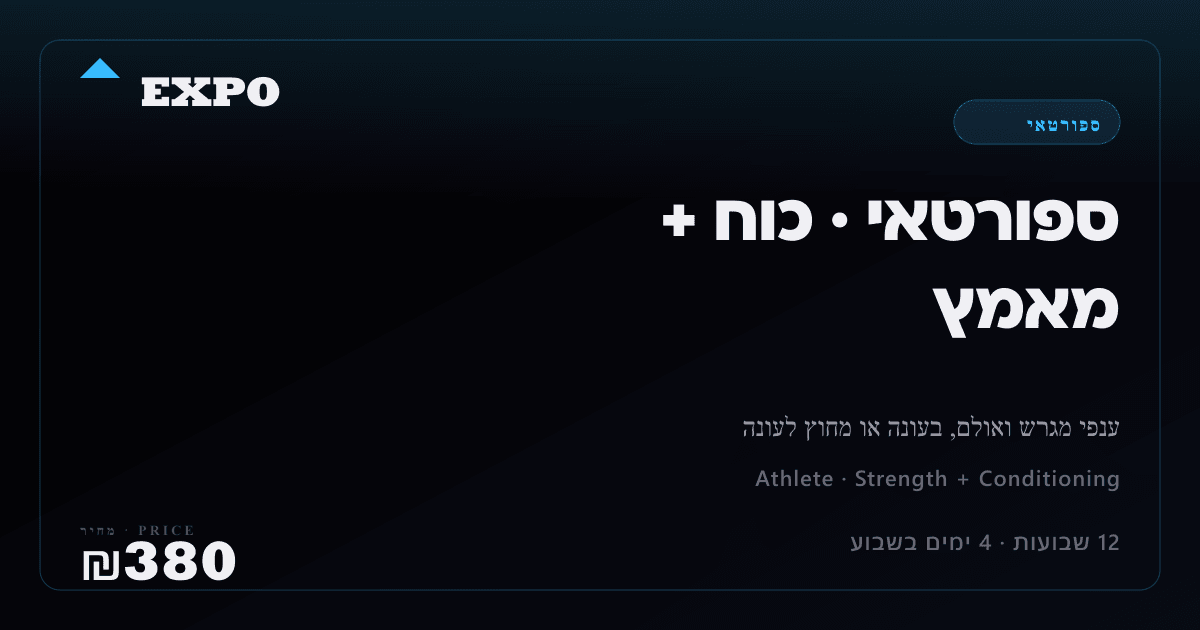
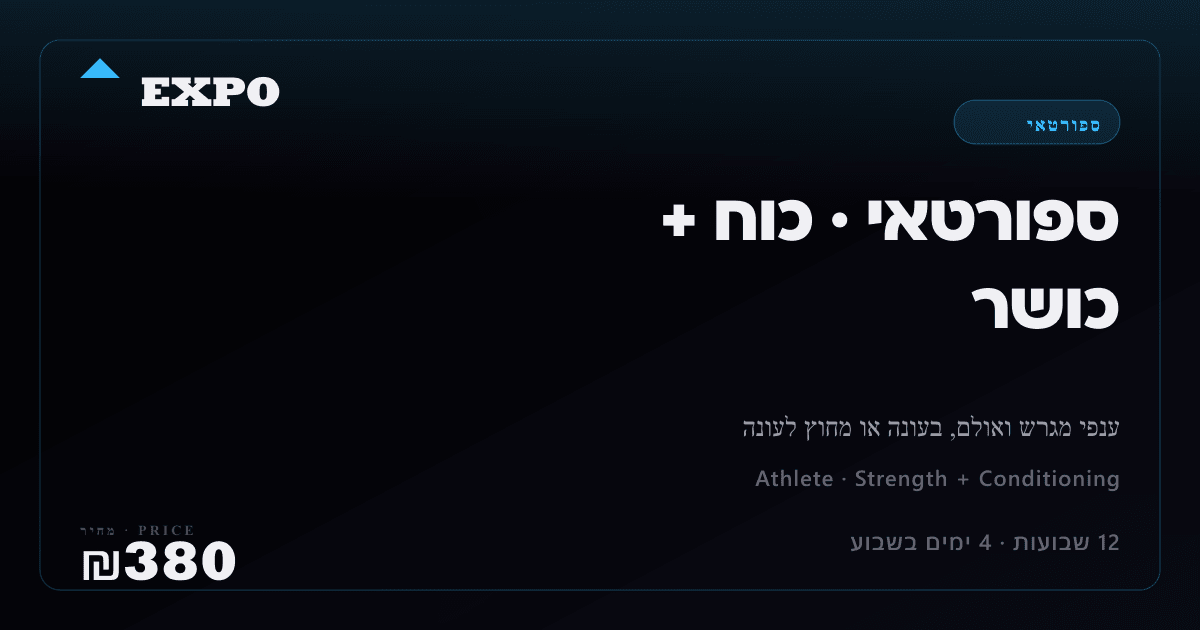
Marketing, read as RENDERED: 30 language fixes; content contradictions left for Ohad
A reader went through the rendered Hebrew of /he, programs, gym and two program pages.
Language fixed: 'מאמץ' is effort, not conditioning ('כוח + כושר', OG card regenerated and
looked at); 'סיומות BFR', 'סטים מובילים', 'סטי המשך' (finishers, top sets, back-off); one
spelling of דילואד; 'היכן שאפשר'; '33 מפרקים' (they are 33 body points); 'רץ במהירות 1x' -
mine from round 2, worse than before; '#4 כבדה'; 'מכבד את מה שיש לך'; the bio's college
teams in Israel are university teams; 'אני מתחיל לגמרי'; a missing להתאמן; the buy
instruction now names the real button ('קנייה בוואטסאפ'); gym: 'כן — אם' + noun did not
parse, 'מה שהמרכז נותן' as a heading, 'יש פציעה ישנה' without לי, slash-gender on the
booking heading, and two footer links whose → pointed backwards in RTL.
NOT changed (claims and content - his call, listed on the handoff page): "4-week blocks"
vs an 8-16 week catalog, "updates weekly", "seven patterns" over a list of six, "my
schedule no longer allows 1:1" beside a 1:1 offer, the rehab-needs-1:1 line vs the rehab
block, a live testimonials placeholder, an example comparing two different weights under
"same weight", English sample-day notes on the rehab page, a testimonial's wording.

Changed region(s): [[0.7708, 0.4524, 0.925, 0.5429], [0.8633, 0.181, 0.925, 0.2111]]

diff --git a/expo-il/src/i18n.js b/expo-il/src/i18n.js
@@ -97,7 +97,7 @@ const STRINGS = {
   'how.02.d.tmpl': {
     // {bit} placeholder is replaced at render time.
     en: 'Tap BUY on the program — opens WhatsApp with everything pre-filled. Pay through Bit ({bit}) and send a screenshot of the confirmation. One-time payment, full receipt issued.',
-    he: 'לחץ "קנייה" — נפתח וואטסאפ עם הכל מוכן. שלם בביט ({bit}) ושלח צילום מסך של האישור. תשלום חד-פעמי, עם חשבונית.',
+    he: 'לחץ "קנייה בוואטסאפ" — נפתח וואטסאפ עם הכל מוכן. שלם בביט ({bit}) ושלח צילום מסך של האישור. תשלום חד-פעמי, עם חשבונית.',
   },
   'how.03.t':            { en: 'Get your account',    he: 'תקבל את החשבון' },
   'how.03.d': {
@@ -118,7 +118,7 @@ const STRINGS = {
   'inside.h2':           { en: 'Your phone counts the reps. You focus on the lift.', he: 'הטלפון סופר חזרות. אתה מתרכז בהרמה.' },
   'inside.body': {
     en: 'Film any set with your phone. The portal runs pose detection on the clip, counts the reps automatically, and lets you compare the new attempt with your last set at the same weight — same engine I use with the athletes I coach, no manual stopwatch.',
-    he: 'צלם כל סט בטלפון. הפורטל מריץ Pose Detection על הקליפ, סופר חזרות אוטומטית, ונותן להשוות בין הסט החדש לסט הקודם באותו משקל. אותה שיטה שאני עובד איתה עם הספורטאים שאני מאמן. בלי לספור עם סטופר.',
+    he: 'צלם כל סט בטלפון. הפורטל מריץ Pose Detection על הקליפ, סופר חזרות אוטומטית, ונותן להשוות בין הסט החדש לסט הקודם באותו משקל. אותה שיטה שאני עובד איתה עם הספורטאים שאני מאמן. בלי לספור ידנית.',
   },
 
   // Phone 1 — pose landmarker
@@ -126,7 +126,7 @@ const STRINGS = {
   'inside.pose.h':       { en: 'Pose detection',    he: 'זיהוי תנוחה' },
   'inside.pose.d': {
     en: 'MediaPipe Pose Landmarker tracks 33 joints in real time on any phone. Knee angle, hip depth, bar path — visible the moment you finish the set.',
-    he: 'MediaPipe Pose Landmarker עוקב אחרי 33 מפרקים בזמן אמת. בכל טלפון. זווית ברך, עומק ירך, מסלול מוט — הכל מופיע ברגע שסיימת את הסט.',
+    he: 'MediaPipe Pose Landmarker עוקב אחרי 33 נקודות בגוף בזמן אמת. בכל טלפון. זווית ברך, עומק ירך, מסלול מוט — הכל מופיע ברגע שסיימת את הסט.',
   },
   'inside.pose.angle':   { en: 'KNEE 87°',          he: 'ברך: 87 מעלות' },
   'inside.pose.depth':   { en: 'DEPTH 92%',         he: 'עומק 92%' },
@@ -138,7 +138,7 @@ const STRINGS = {
   'inside.shot.h':       { en: 'Jump-shot analyzer', he: 'ניתוח זריקה' },
   'inside.shot.d': {
     en: 'Film a jump shot and get it back split into dip, set point, release and follow-through — ten checkpoints scored against coaching bands, each one with the fix. Film a set and it says whether the release repeats — and you mark each shot made or missed, so the session carries a makes-over-shots count.',
-    he: 'צלם זריקה ותקבל אותה מפורקת לדיפ, נקודת סט, שחרור וליווי — עשר נקודות בדיקה מול טווחי אימון, וכל אחת עם התיקון שלה. צלם סדרה והניתוח יגיד לך אם השחרור חוזר על עצמו. אתה מסמן כל זריקה, נכנסה או לא, וככה בסוף האימון אתה יודע כמה נכנסו מתוך כמה זריקות.',
+    he: 'צלם זריקה ותקבל אותה מפורקת לדיפ, נקודת סט, שחרור וליווי — עשר נקודות בדיקה מול טווחי יעד, וכל אחת עם התיקון שלה. צלם סדרה והניתוח יגיד לך אם השחרור חוזר על עצמו. אתה מסמן כל זריקה, נכנסה או לא, וככה בסוף האימון אתה יודע כמה נכנסו מתוך כמה זריקות.',
   },
   'inside.shot.foot':    { en: '10 CHECKPOINTS · PHASE BY PHASE', he: '10 נקודות בדיקה · שלב אחר שלב' },
 
@@ -147,7 +147,7 @@ const STRINGS = {
   'inside.rep.h':        { en: 'Auto rep counter',  he: 'ספירת חזרות אוטומטית' },
   'inside.rep.d': {
     en: 'Detects troughs in the bar path, not peaks — so a paused or grindy rep still counts. Runs at 1× playback the moment the upload finishes.',
-    he: 'מזהה את נקודות התחתית במסלול המוט, לא את נקודות השיא. ככה גם חזרה כבדה או חזרה עם עצירה נספרת. רץ במהירות 1x ברגע שהקליפ עלה.',
+    he: 'מזהה את נקודות התחתית במסלול המוט, לא את נקודות השיא. ככה גם חזרה כבדה או חזרה עם עצירה נספרת. רץ ברגע שהקליפ עולה.',
   },
   'inside.rep.big':      { en: '8 / 8',             he: '8 / 8' },
   'inside.rep.label':    { en: 'REPS',              he: 'חזרות' },
@@ -161,7 +161,7 @@ const STRINGS = {
     he: 'כל קליפ נכנס לספרייה לפי תרגיל ומשקל. שתי לחיצות ואתה רואה את הסט של היום מול הסט הקודם באותו משקל. ROM, טמפו, עומק — הכל גלוי.',
   },
   'inside.cmp.last.t':   { en: 'LAST · 90 KG',      he: 'קודם · 90 ק״ג' },
-  'inside.cmp.last.s':   { en: '4 reps · grindy #4',he: '4 חזרות · #4 כבדה' },
+  'inside.cmp.last.s':   { en: '4 reps · grindy #4',he: '4 חזרות · הרביעית כבדה' },
   'inside.cmp.now.t':    { en: 'TODAY · 95 KG',     he: 'היום · 95 ק״ג' },
   'inside.cmp.now.s':    { en: '5 reps · all clean',he: '5 חזרות · כולן נקיות' },
   'inside.cmp.foot':     { en: 'ROM +6° · TEMPO MATCH', he: 'ROM עלה ב-6 מעלות · טמפו תואם' },
@@ -170,7 +170,7 @@ const STRINGS = {
   // Counts the cards in WhatsInside — keep it in step when a card is added.
   'inside.note': {
     en: 'All four are included in every program — no separate add-on, no extra charge.',
-    he: 'כל הארבעה כלולים בכל תוכנית. בלי תוספת, בלי תשלום נוסף.',
+    he: 'כל הארבעה כלולים בכל תוכנית. בלי תשלום נוסף.',
   },
 
   // CTA from WhatsInside section to the public sandbox at expo-app.co.il/demo/trainee.
@@ -186,11 +186,11 @@ const STRINGS = {
   'about.h2':            { en: "I'm Ohad. I've been programming this exact engine for years.", he: 'אני אוהד. שנים שאני בונה את השיטה הזאת.' },
   'about.p1': {
     en: "Athletic Performance Coach at Bnei Herzliya. Spent four years playing American football in the NCAA — CMU, then a couple of college teams in Israel (OUI, TAU). Trained as an athlete first, then started programming for athletes who needed someone who'd done the work.",
-    he: 'מאמן יכולות אתלטיות בבני הרצליה. ארבע שנים שיחקתי פוטבול אמריקאי — ב-NCAA ב-CMU, ואחרי זה בכמה קבוצות קולג׳ בארץ (OUI, TAU). הייתי ספורטאי לפני שהייתי מאמן. אחרי זה התחלתי לכתוב תוכניות לאתלטים שצריכים מישהו שעבר את הדרך בעצמו.',
+    he: 'מאמן יכולות אתלטיות בבני הרצליה. ארבע שנים שיחקתי פוטבול אמריקאי — ב-CMU בליגת ה-NCAA, ואחרי זה בקבוצות אוניברסיטה בארץ (OUI, TAU). הייתי ספורטאי לפני שהייתי מאמן. אחרי זה התחלתי לכתוב תוכניות לאתלטים שצריכים מישהו שעבר את הדרך בעצמו.',
   },
   'about.p2': {
     en: 'Today I work with the athletes I coach out of Herzliya — block-periodised training, progress logged on the phone, video reviewed every week. The portal you see here is the same one they use. I built it myself so I could stop juggling spreadsheets.',
-    he: 'היום אני עובד עם הספורטאים שאני מאמן בהרצליה. תוכנית בבלוקים. תיעוד בטלפון. סרטונים נבדקים כל שבוע. הפורטל שאתה רואה פה הוא בדיוק זה שהם עובדים איתו. בניתי אותו לבד כדי להפסיק עם אקסלים.',
+    he: 'היום אני מאמן ספורטאים בהרצליה. תוכנית בבלוקים. תיעוד בטלפון. סרטונים נבדקים כל שבוע. הפורטל שאתה רואה פה הוא בדיוק זה שהם עובדים איתו. בניתי אותו לבד כדי להפסיק עם אקסלים.',
   },
   'about.p3': {
     en: "EXPO templates exist because I can't take more 1:1 athletes than my schedule allows, but the programming is good enough to deliver as standalone product. Same blocks, same auto-regulation, no waitlist.",
@@ -210,7 +210,7 @@ const STRINGS = {
   'about.values.t1':     { en: 'Auto-regulation over heroics', he: 'אוטו-רגולציה לפני אגו' },
   'about.values.d1': {
     en: 'Loads adjust to the RPE you log, not the number on a spreadsheet. The block respects what your body actually has on the day.',
-    he: 'העומס מתאים את עצמו ל-RPE שאתה מתעד, לא למספר בגיליון. הבלוק מכבד את מה שיש לך באמת באותו יום.',
+    he: 'העומס מתאים את עצמו ל-RPE שאתה מתעד, לא למספר בגיליון. הבלוק מתחשב במה שיש לך באמת באותו יום.',
   },
   'about.values.t2':     { en: 'Movement first, load second', he: 'תנועה לפני עומס' },
   'about.values.d2': {
@@ -220,7 +220,7 @@ const STRINGS = {
   'about.values.t3':     { en: 'Build for the long run',      he: 'בונים לטווח הארוך' },
   'about.values.d3': {
     en: 'Pain check-ins, deload weeks, and reassess windows are baked into every block. You don\'t get strong by training through dysfunction.',
-    he: 'דיווחי כאב, שבועות דלואד והערכה מחדש מובנים בכל בלוק. מי שמתאמן על תנועה לא תקינה לא מתחזק.',
+    he: 'דיווחי כאב, שבועות דילואד והערכה מחדש מובנים בכל בלוק. מי שמתאמן על תנועה לא תקינה לא מתחזק.',
   },
 
   'about.photo.note': {
@@ -294,7 +294,7 @@ const STRINGS = {
   'contact.h2':          { en: 'Questions before you buy?', he: 'שאלות לפני שאתה קונה?' },
   'contact.body': {
     en: "WhatsApp is the fastest — replies inside the same day, usually within a couple of hours. Tell me what you train for, your equipment, and how many days a week you can give me, and I'll point you at the right program.",
-    he: 'וואטסאפ הכי מהיר. אני עונה באותו יום, בדרך כלל תוך כמה שעות. תספר לי לאיזו מטרה אתה מתאמן, איזה ציוד יש לך, וכמה ימים בשבוע אתה יכול — ואני אכוון אותך לתוכנית הנכונה.',
+    he: 'וואטסאפ הכי מהיר. אני עונה באותו יום, בדרך כלל תוך כמה שעות. תספר לי לאיזו מטרה אתה מתאמן, איזה ציוד יש לך, וכמה ימים בשבוע אתה יכול להתאמן — ואני אכוון אותך לתוכנית הנכונה.',
   },
   'contact.hours':       { en: 'Reply window: Sun–Thu 09:00–20:00 (Israel time). Friday/Saturday — slower but I read everything.', he: 'שעות מענה: א׳–ה׳, 09:00–20:00. שישי-שבת איטי יותר אבל אני קורא הכל.' },
   'contact.cta.whatsapp': { en: 'WHATSAPP',      he: 'וואטסאפ' },
@@ -314,7 +314,7 @@ const STRINGS = {
   'detail.section.sample':    { en: 'SAMPLE WEEK',      he: 'שבוע לדוגמה' },
   'detail.sample.body.tmpl': {
     en: 'A look at one full microcycle. The full block escalates and varies these patterns across {weeks} weeks.',
-    he: 'ככה נראה מיקרו-מחזור שלם. הבלוק המלא מקשה ומגוון את דפוסי התנועה האלה לאורך {weeks} שבועות.',
+    he: 'ככה נראה מיקרו-מחזור שלם. הבלוק המלא מעלה את הרמה ומגוון את התרגילים האלה לאורך {weeks} שבועות.',
   },
   'detail.sample.empty':      { en: 'SAMPLE WEEK COMING SOON', he: 'שבוע לדוגמה בקרוב' },
   'detail.day.label.tmpl':    { en: 'DAY {x}',          he: 'יום {x}' },
@@ -365,7 +365,7 @@ const STRINGS = {
   // ─── Israeli trust signals strip ──────────────────────────────────
   'trust.badge':      { en: 'WHY IT IS SAFE TO BUY', he: 'למה זה בטוח לקנות' },
   'trust.bit.t':      { en: 'Pay via Bit',           he: 'תשלום בביט' },
-  'trust.bit.s':      { en: 'Israeli mobile payment, no card details exchanged', he: 'תשלום ישראלי בנייד, בלי פרטי כרטיס אשראי' },
+  'trust.bit.s':      { en: 'Israeli mobile payment, no card details exchanged', he: 'תשלום מהנייד, בלי פרטי כרטיס אשראי' },
   'trust.invoice.t':  { en: 'Digital tax invoice',   he: 'חשבונית מס דיגיטלית' },
   'trust.invoice.s':  { en: 'Issued via Green Invoice the same day. עוסק מורשה.', he: 'נשלחת דרך חשבונית ירוקה באותו יום. עוסק מורשה.' },
   'trust.vat.t':      { en: 'VAT included',          he: 'כולל מע״מ' },
@@ -392,7 +392,7 @@ const STRINGS = {
     en: 'Depends on the program — every card lists the equipment (HOME, FULL GYM, MINIMAL). Filter the catalog by tag or use the quiz to see only what fits your setup.',
     he: 'תלוי בתוכנית. בכל כרטיס יש את הציוד המדויק. תסנן בקטלוג לפי תגית או תעבור על הקוויז ותראה רק מה שמתאים לסטאפ שלך.',
   },
-  'faq.q3':           { en: "I'm a complete beginner. Will this be over my head?", he: 'אני מתחיל לגמרי. זה יהיה גבוה מדי בשבילי?' },
+  'faq.q3':           { en: "I'm a complete beginner. Will this be over my head?", he: 'אני מתחיל מאפס. זה יהיה גבוה מדי בשבילי?' },
   'faq.a3': {
     en: 'Foundation Block is built exactly for that. Three days a week, dumbbells + barbell, no machines required. Tempo and ROM cues come before any heavy load — you learn the seven primary patterns first, weight comes after.',
     he: 'בלוק היסודות מיועד בדיוק לזה. שלושה ימים בשבוע, מוט ומשקולות, בלי מכונות. דגש על טמפו ועל טווח תנועה לפני העומס — לומדים את שבע תבניות התנועה קודם, המשקל בא אחרי.',
@@ -417,7 +417,7 @@ const STRINGS = {
     en: "Free apps give you a list of exercises. They do not auto-regulate against your RPE, they do not run pose detection on your video, they do not count reps from the bar path, and there is no real coach answering your WhatsApp. EXPO templates are the same engine the athletes I coach run — programmed by me, not generated.",
     he: 'אפליקציות חינמיות נותנות לך רשימת תרגילים. הן לא מתאימות עומס ל-RPE שלך, לא מריצות זיהוי תנוחה על הסרטון, לא סופרות חזרות לפי מסלול המוט, ואין מאמן אמיתי שעונה בוואטסאפ. תבניות EXPO הן אותה שיטה שעובדים איתה הספורטאים שאני מאמן — אני כותב, לא AI.',
   },
-  'faq.q8':           { en: 'Can I message you for support after I buy?', he: 'אפשר לדבר איתך לתמיכה אחרי הקנייה?' },
+  'faq.q8':           { en: 'Can I message you for support after I buy?', he: 'אפשר לפנות אליך אחרי הקנייה?' },
   'faq.a8': {
     en: 'Yes — WhatsApp is open. I am not a 24/7 hotline, but I read everything and reply same-day Sun–Thu, slower on Fri/Sat. The portal answers most things on its own (load progressions, exercise swaps, pain gating), so messaging is for the harder cases — and that is included in the one-time price.',
     he: 'כן. וואטסאפ פתוח. אני לא קו חם 24/7, אבל אני קורא הכל ועונה באותו יום א׳–ה׳, איטי יותר בשישי-שבת. הפורטל פותר את רוב הדברים לבד (עליות עומס, החלפת תרגילים, סף כאב), אז הודעות זה למקרים יותר מורכבים — וזה כלול במחיר החד-פעמי.',
@@ -428,9 +428,9 @@ const STRINGS = {
   'quiz.h2':          { en: 'Six questions. Get matched.', he: 'שש שאלות. תקבל התאמה.' },
   'quiz.body': {
     en: "I built this from the same intake form I use with the athletes I coach — just shorter. Takes about a minute. The full assessment lives behind it for when you are ready.",
-    he: 'בניתי את זה מאותו טופס היכרות שאני עובד איתו עם הספורטאים שאני מאמן — רק קצר יותר. דקה. ההערכה המלאה מחכה שם, כשתהיה מוכן.',
+    he: 'בניתי את זה מאותו טופס היכרות שאני עובד איתו עם הספורטאים שאני מאמן — רק קצר יותר. דקה. ההערכה המלאה מחכה לך אחרי זה, כשתהיה מוכן.',
   },
-  'quiz.cta':         { en: 'START QUIZ →',          he: 'תתחיל קוויז ←' },
+  'quiz.cta':         { en: 'START QUIZ →',          he: 'התחלת השאלון ←' },
   'quiz.modal.title': { en: 'Find your program',     he: 'תמצא את התוכנית שלך' },
   'quiz.modal.close': { en: 'Close',                 he: 'סגירה' },
   'quiz.step.tmpl':   { en: 'STEP {n} OF {total}',   he: 'שלב {n} מתוך {total}' },

diff --git a/expo-il/src/Gym.jsx b/expo-il/src/Gym.jsx
@@ -291,9 +291,9 @@ function WhoItsFor({ heb }) {
     <section data-fade className="gym-section">
       <SectionHeader heb={heb}
         kicker={heb ? 'למי זה' : 'WHO IT IS FOR'}
-        title={heb ? 'מי המתאמן שלנו' : 'Who trains here'}
+        title={heb ? 'למי זה מתאים' : 'Who trains here'}
         subtitle={heb
-          ? 'מרכז ביצועים. לא חדר כושר חופשי, לא שיעור קבוצתי. וזה משנה למי זה מתאים.'
+          ? 'מרכז ביצועים. לא חדר כושר חופשי, לא שיעור קבוצתי. ולכן זה לא לכל אחד.'
           : 'A performance center. Not an open gym, not a group class. That changes who fits.'} />
       <div style={{
         display: 'grid', gridTemplateColumns: 'repeat(auto-fit, minmax(280px, 1fr))', gap: 1,
@@ -303,7 +303,7 @@ function WhoItsFor({ heb }) {
           <div style={{
             fontFamily: FN, fontSize: 11, color: C.ac, letterSpacing: '0.22em',
             fontWeight: 800, marginBottom: 16,
-          }}>{heb ? 'כן — אם' : 'YES — IF'}</div>
+          }}>{heb ? 'מתאים אם' : 'YES — IF'}</div>
           <ul style={{ margin: 0, padding: 0, listStyle: 'none', display: 'flex', flexDirection: 'column', gap: 10 }}>
             {yes.map((t, i) => (
               <li key={i} style={{ display: 'flex', gap: 10, fontSize: 14, color: C.tx, lineHeight: 1.55 }}>
@@ -317,7 +317,7 @@ function WhoItsFor({ heb }) {
           <div style={{
             fontFamily: FN, fontSize: 11, color: C.tm, letterSpacing: '0.22em',
             fontWeight: 800, marginBottom: 16,
-          }}>{heb ? 'לא — אם' : 'NOT — IF'}</div>
+          }}>{heb ? 'לא מתאים אם' : 'NOT — IF'}</div>
           <ul style={{ margin: 0, padding: 0, listStyle: 'none', display: 'flex', flexDirection: 'column', gap: 10 }}>
             {no.map((t, i) => (
               <li key={i} style={{ display: 'flex', gap: 10, fontSize: 14, color: C.tm, lineHeight: 1.55 }}>
@@ -338,7 +338,7 @@ function WhyInPerson({ heb }) {
     ? [
         { h: 'עיניים על כל סט', b: 'רק 4–7 בקבוצה. אנחנו רואים כל חזרה ומתקנים תוך כדי הסט — לא שיעור שבו אתה סתם עוד מספר.' },
         { h: 'תוכנית, לא אימון', b: 'בלוקים של 4–8 שבועות שנבנים סביב המספרים שלך. השינוי בין שבוע לשבוע מתוכנן, לא אקראי.' },
-        { h: 'עיסוי, לא בונוס', b: 'עיסוי ספורט של 45–60 דקות בכל חודש עם מטפל ייעודי, מובנה במנוי. פחות כאבי שריר, טווחי תנועה פתוחים, וגוף שמחזיק את העומס לאורך זמן.' },
+        { h: 'עיסוי, לא בונוס', b: 'עיסוי ספורט של 45–60 דקות בכל חודש עם מטפל ייעודי, כלול במנוי. פחות כאבי שריר, טווחי תנועה פתוחים, וגוף שמחזיק את העומס לאורך זמן.' },
       ]
     : [
         { h: 'Coached eyes, every set', b: 'Groups of 4–7 only. We see every rep and correct it mid-set — not a class where you are a number.' },
@@ -349,7 +349,7 @@ function WhyInPerson({ heb }) {
     <section data-fade className="gym-section">
       <SectionHeader heb={heb}
         kicker={heb ? 'למה כאן' : 'WHY HERE'}
-        title={heb ? 'מה שהמרכז נותן' : 'What the center gives you'} />
+        title={heb ? 'מה המרכז נותן' : 'What the center gives you'} />
       <div style={{
         display: 'grid', gridTemplateColumns: 'repeat(auto-fit, minmax(260px, 1fr))', gap: 14, marginTop: 32,
       }}>
@@ -384,7 +384,7 @@ function WhyInPerson({ heb }) {
 function Approach({ heb }) {
   const pillars = heb
     ? [
-        { n: '01', h: 'תוכנית כוח מתוכננת', b: 'בלוקים של 4–8 שבועות. מחזורים שמתעדכנים לפי הביצועים, לא לפי תחושה. כל סט נכתב מראש.' },
+        { n: '01', h: 'תוכנית כוח מובנית', b: 'בלוקים של 4–8 שבועות. מחזורים שמתעדכנים לפי הביצועים, לא לפי תחושה. כל סט נכתב מראש.' },
         { n: '02', h: 'ניידות וטווחי תנועה', b: 'עבודה ממוקדת על הצוואר, הכתפיים, הירך, והקרסול. לא מתיחות בסוף — חלק מהאימון עצמו.' },
         { n: '03', h: 'עיסוי ספורט מובנה', b: 'עיסוי חודשי של 45–60 דקות עם מטפל ייעודי, ועיסוי קצר של 15–20 דקות לפני/אחרי אימון לפי הצורך. פחות כאב, פחות פציעות, יותר רציפות.' },
       ]
@@ -778,7 +778,7 @@ function CalendarSection({ heb }) {
     <section data-fade className="gym-section">
       <SectionHeader heb={heb}
         kicker={heb ? 'יומן חי' : 'LIVE CALENDAR'}
-        title={heb ? 'בחר מועד פנוי' : 'Pick an open slot'}
+        title={heb ? 'בחר/י מועד פנוי' : 'Pick an open slot'}
         subtitle={heb
           ? 'מועדים בזמן אמת. בחר/י, מלא/י פרטים, וקבל/י אישור באימייל מיד.'
           : "Real-time availability. Pick a slot, fill the form, get an email confirmation instantly."} />
@@ -868,7 +868,7 @@ function FAQ({ heb }) {
   const items = heb
     ? [
         { q: 'אני חדש לחלוטין באימוני כוח. זה מתאים לי?', a: 'בהחלט. רוב המתאמנים מתחילים אצלנו בלי רקע קודם. אבחון התנועה הראשון בודק מאיפה להתחיל.' },
-        { q: 'יש פציעה ישנה. אפשר להתאמן?', a: 'תלוי בפציעה — אחרי השיחה הראשונה נדע אם זה הכיוון, ואם צריך נפנה אותך למישהו מתאים יותר. אנחנו לא מבטיחים דברים שאנחנו לא יכולים לעמוד בהם.' },
+        { q: 'יש לי פציעה ישנה. אפשר להתאמן?', a: 'תלוי בפציעה — אחרי השיחה הראשונה נדע אם זה הכיוון, ואם צריך נפנה אותך למישהו מתאים יותר. אנחנו לא מבטיחים דברים שאנחנו לא יכולים לעמוד בהם.' },
         { q: 'מי נותן את העיסוי?', a: 'יובל, המטפל בעיסוי ספורט ורפואי של המרכז, מוסמך מכון וינגייט. אוהד מאמן, יובל מטפל — שניהם מלווים אותך לאורך התהליך.' },
         { q: 'העיסוי באמת כלול, או שזו תוספת בתשלום?', a: 'כלול. כל מנוי כולל עיסוי ספורט חודשי של 45–60 דקות עם מטפל ייעודי — לא בונוס שמופיע פעם בכמה חודשים. אפשר להוסיף עיסוי קצר לפני או אחרי אימון לפי הצורך.' },
         { q: 'כמה עולה חודש?', a: 'תלוי בקצב (פעם, פעמיים, או שלוש בשבוע). שולחים מחירון מסודר אחרי הפנייה הראשונה.' },
@@ -971,11 +971,11 @@ function Footer({ heb }) {
           }}>{heb ? 'עוד ב-EXPO' : 'ALSO ON EXPO'}</div>
           <div style={{ display: 'flex', flexDirection: 'column', gap: 6 }}>
             <a href="#/online" style={{ color: C.tx, fontSize: 13, textDecoration: 'none' }}>
-              {heb ? 'תוכניות אונליין' : 'Online programs'} →
+              {heb ? 'תוכניות אונליין ←' : 'Online programs →'}
             </a>
             <a href="https://expo-app.co.il" target="_blank" rel="noopener"
               style={{ color: C.tx, fontSize: 13, textDecoration: 'none' }}>
-              {heb ? 'אפליקציית EXPO' : 'EXPO athlete app'} →
+              {heb ? 'אפליקציית EXPO ←' : 'EXPO athlete app →'}
             </a>
           </div>
         </div>

diff --git a/expo-il/src/programs.js b/expo-il/src/programs.js
@@ -122,7 +122,7 @@ export const PROGRAMS = [
     title: 'Hypertrophy 16',
     titleHe: 'היפרטרופיה 16',
     tagHe: 'היפרטרופיה',
-    audienceHe: 'שנה ומעלה של ניסיון, מטרה היא מסה',
+    audienceHe: 'שנה ומעלה של ניסיון, המטרה: מסה',
     durationHe: '16 שבועות · 4 ימים בשבוע',
     duration: '16 weeks · 4 days/week',
     audience: '1+ year base, goal is size',
@@ -136,9 +136,9 @@ export const PROGRAMS = [
       'Optional BFR finishers',
     ],
     highlightsHe: [
-      'עליית נפח 60→90% משבוע לשבוע',
+      'עליית נפח הדרגתית מ-60% ל-90% לאורך הבלוק',
       'פיצול משולב — דחיפה/משיכה/רגליים + עליון/תחתון',
-      'סיומות BFR אופציונליות',
+      'פינישרים של BFR אופציונליות',
     ],
     price: 390,
     currency: 'NIS',
@@ -208,9 +208,9 @@ export const PROGRAMS = [
       'Built-in deload week',
     ],
     highlightsHe: [
-      'סטים מובילים 80-90% מ-1RM בתרגילים המרכזיים',
-      'סטי המשך להגדלת מסה',
-      'שבוע דילוד מובנה',
+      'טופ סטים ב-80–90% מ-1RM בתרגילים המרכזיים',
+      'סטי בק-אוף להגדלת מסה',
+      'שבוע דילואד מובנה',
     ],
     price: 350,
     currency: 'NIS',
@@ -276,8 +276,8 @@ export const PROGRAMS = [
       'One purchase = two accounts',
     ],
     highlightsHe: [
-      'סופרסטים מסונכרנים היכן שאפשר',
-      'עומסים שונים, אותו אחוז 1RM',
+      'סופרסטים מסונכרנים איפה שאפשר',
+      'עומסים שונים, אותו אחוז מ-1RM',
       'רכישה אחת = שני חשבונות',
     ],
     price: 540,
@@ -384,7 +384,7 @@ export const PROGRAMS = [
     id: 'athlete-conditioning-12',
     tag: 'Athletic',
     title: 'Athlete · Strength + Conditioning',
-    titleHe: 'ספורטאי · כוח + מאמץ',
+    titleHe: 'ספורטאי · כוח + כושר',
     tagHe: 'ספורטאי',
     audienceHe: 'ענפי מגרש ואולם, בעונה או מחוץ לעונה',
     durationHe: '12 שבועות · 4 ימים בשבוע',
@@ -400,7 +400,7 @@ export const PROGRAMS = [
       'Sprint and change-of-direction blocks',
     ],
     highlightsHe: [
-      'שני ימי כוח + שני ימי מאמץ',
+      'שני ימי כוח + שני ימי כושר',
       'תקרת RPE בימי משחק בעונה',
       'בלוקי ספרינט ושינוי כיוון',
     ],
